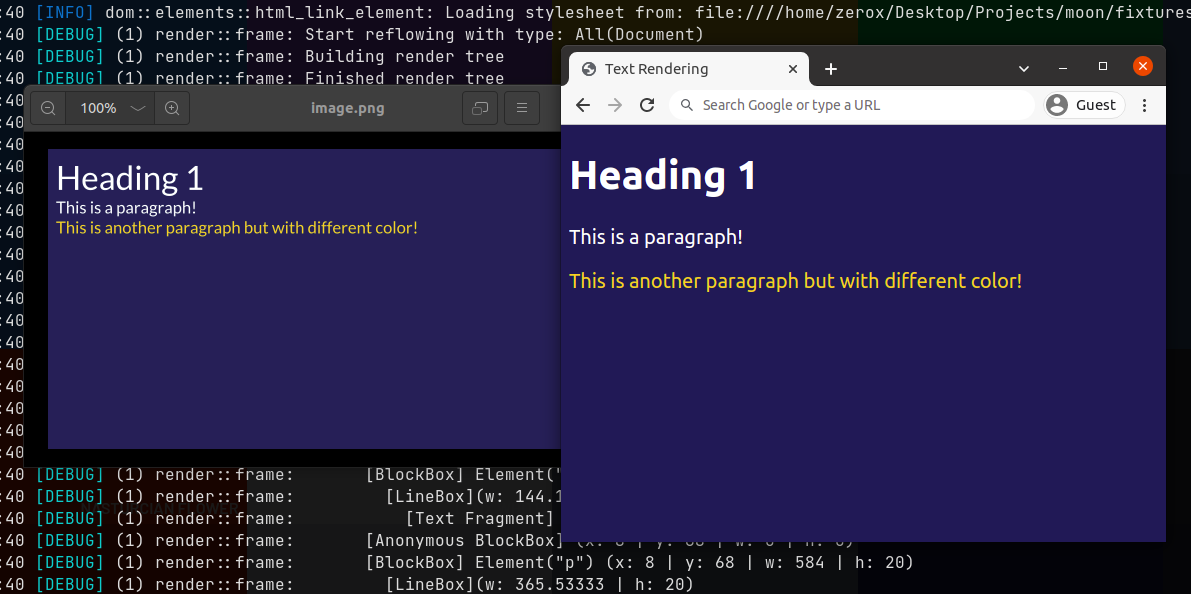
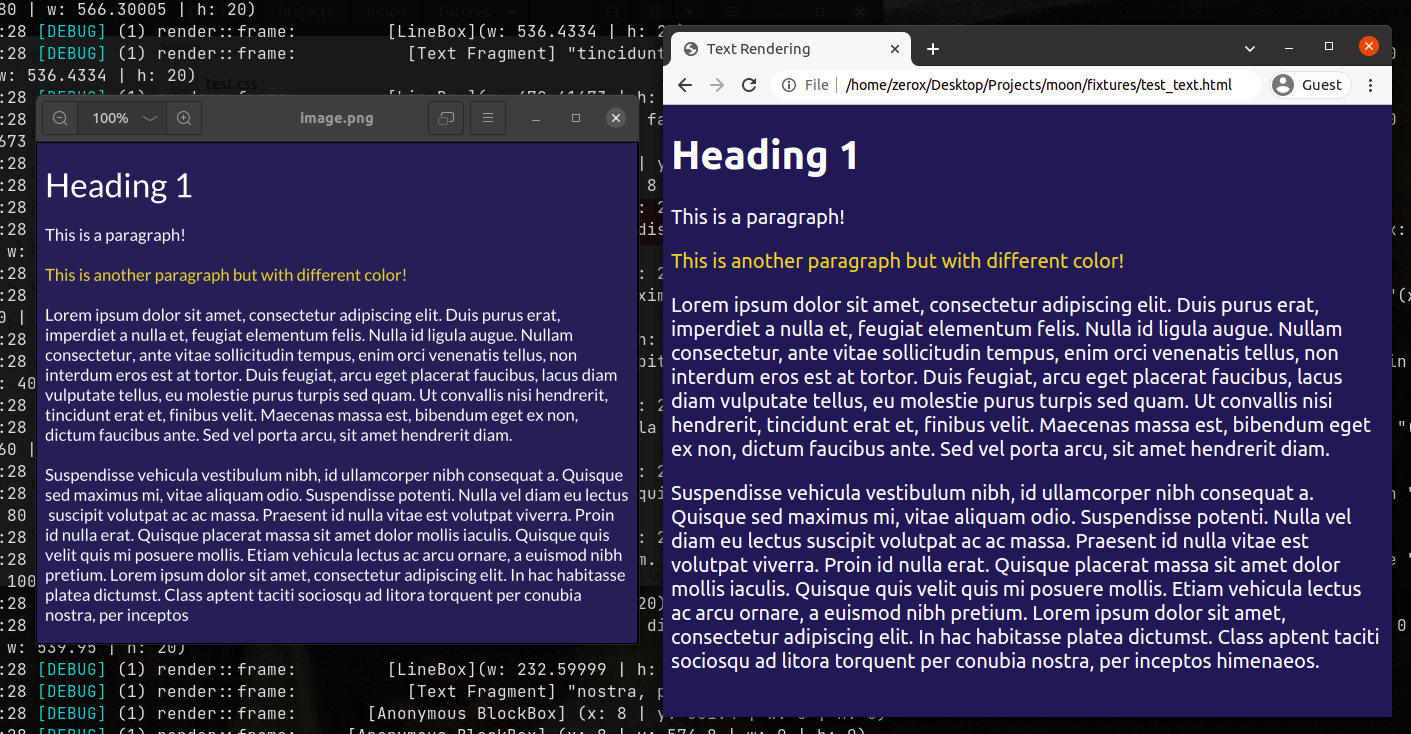
Support `margin-block-start` & `margin-block-end` & margin collapse
Support `margin-block-start` & `margin-block-end` CSS property by interpret it as `margin-top` & `margin-bottom`. This behavior should be fixed in the future once we support writing direction.

Supported margin collapse for BFC.

diff --git a/fixtures/test_text.html b/fixtures/test_text.html
@@ -15,6 +15,23 @@
     <h1>Heading 1</h1>
     <p>This is a paragraph!</p>
     <p id="yellow-text">This is another paragraph but with different color!</p>
+    <p>Lorem ipsum dolor sit amet, consectetur adipiscing elit. Duis purus erat, imperdiet a nulla
+    et, feugiat elementum felis. Nulla id ligula augue. Nullam consectetur, ante vitae sollicitudin
+    tempus, enim orci venenatis tellus, non interdum eros est at tortor. Duis feugiat, arcu eget
+    placerat faucibus, lacus diam vulputate tellus, eu molestie purus turpis sed quam. Ut convallis
+    nisi hendrerit, tincidunt erat et, finibus velit. Maecenas massa est, bibendum eget ex non,
+    dictum faucibus ante. Sed vel porta arcu, sit amet hendrerit diam.</p>
+    <p>Suspendisse vehicula vestibulum nibh, id ullamcorper nibh consequat a. Quisque sed maximus
+    mi, vitae aliquam odio. Suspendisse potenti. Nulla vel diam eu lectus suscipit volutpat ac ac
+    massa. Praesent id nulla vitae est volutpat viverra. Proin id nulla erat. Quisque placerat
+    massa sit amet dolor mollis iaculis. Quisque quis velit quis mi posuere mollis. Etiam vehicula
+    lectus ac arcu ornare, a euismod nibh pretium. Lorem ipsum dolor sit amet, consectetur
+    adipiscing elit. In hac habitasse platea dictumst. Class aptent taciti sociosqu ad litora
+    torquent per conubia nostra, per inceptos himenaeos.</p>
+    <p>Phasellus ac placerat tellus. Sed quis risus non sapien rutrum fermentum eget quis diam.
+    Nulla quis risus a diam finibus facilisis. Phasellus sit amet condimentum orci. Integer laoreet
+    purus dolor, vitae dapibus mi porta consequat. Mauris porttitor erat nulla, a vehicula massa
+    mollis vel. Aliquam et consequat ipsum. Etiam a bibendum magna.</p>
 </div>
 </body>
 </html>

diff --git a/fixtures/test_collapsed_margin.html b/fixtures/test_collapsed_margin.html
@@ -1,0 +1,22 @@
+<link rel="stylesheet" href="test_collapsed_margin.css" />
+
+<p>Positive Margins:</p>
+
+<div>
+  <div class="box red" id="a"></div>
+  <div class="box black" id="b"></div>
+</div>
+
+<p>Positive & Negative Margin:</p>
+
+<div>
+  <div class="box red" id="c"></div>
+  <div class="box black" id="d"></div>
+</div>
+
+<p>Negative Margins:</p>
+
+<div>
+  <div class="box red" id="e"></div>
+  <div class="box black" id="f"></div>
+</div>

diff --git a/fixtures/test_collapsed_margin.css b/fixtures/test_collapsed_margin.css
@@ -1,0 +1,36 @@
+.red {
+  background-color: red;
+}
+
+.black {
+  background-color: black;
+}
+
+.box {
+  height: 20px;
+  width: 300px;
+}
+
+#a {
+  margin-bottom: 20px;
+}
+
+#b {
+  margin-top: 20px;
+}
+
+#c {
+  margin-bottom: 20px;
+}
+
+#d {
+  margin-top: -10px;
+}
+
+#e {
+  margin-bottom: -5px;
+}
+
+#f {
+  margin-top: -5px;
+}

diff --git a/components/layout/src/flow/block.rs b/components/layout/src/flow/block.rs
@@ -5,14 +5,14 @@ use style::{property::Property, values::prelude::Position};
 
 pub struct BlockFormattingContext {
     layout_context: Rc<LayoutContext>,
-    current_y: f32,
+    last_sibling: Option<Rc<LayoutBox>>,
 }
 
 impl BlockFormattingContext {
     pub fn new(layout_context: Rc<LayoutContext>) -> Self {
         Self {
             layout_context,
-            current_y: 0.,
+            last_sibling: None,
         }
     }
 
@@ -56,7 +56,10 @@ impl BlockFormattingContext {
             }
 
             child.apply_explicit_sizes();
-            self.current_y += child.margin_box_height();
+
+            if child.border_box_absolute().height > 0. {
+                self.last_sibling = Some(child.clone());
+            }
         }
     }
 
@@ -65,7 +68,43 @@ impl BlockFormattingContext {
 
         let box_model = layout_node.box_model().borrow();
         let x = box_model.margin_box().left + box_model.offset.left;
-        let y = self.current_y + box_model.margin_box().top + box_model.offset.top;
+
+        let mut y = box_model.margin_box().top + box_model.offset.top;
+
+        let mut previous_collapsed_margin_bottom = 0.;
+
+        if let Some(sibling) = &self.last_sibling {
+            previous_collapsed_margin_bottom = f32::max(
+                previous_collapsed_margin_bottom,
+                sibling.box_model().borrow().margin_box().bottom,
+            );
+            y += sibling.offset().y
+                + sibling.content_size().height
+                + sibling.box_model().borrow().border_box().bottom;
+
+            if box_model.margin_box().top < 0. || previous_collapsed_margin_bottom < 0. {
+                if box_model.margin_box().top < 0. && previous_collapsed_margin_bottom < 0. {
+                    // When all margins are negative, the size of the collapsed margin is the smallest (most negative) margin.
+                    let smallest_negative_margin =
+                        f32::min(previous_collapsed_margin_bottom, box_model.margin_box().top);
+                    y += smallest_negative_margin;
+                } else {
+                    // When negative margins are involved, the size of the collapsed margins
+                    // is the sum of the largest positive margin and the smallest (most negative) negative margin.
+                    let largest_positive_margin =
+                        f32::max(previous_collapsed_margin_bottom, box_model.margin_box().top);
+                    let smallest_negative_margin =
+                        f32::min(previous_collapsed_margin_bottom, box_model.margin_box().top);
+
+                    let margin_offset = largest_positive_margin + smallest_negative_margin;
+                    y += margin_offset - box_model.margin_box().top;
+                }
+            } else if previous_collapsed_margin_bottom > box_model.margin_box().top {
+                let final_collapsed_margin =
+                    previous_collapsed_margin_bottom - box_model.margin_box().top;
+                y += final_collapsed_margin;
+            }
+        }
 
         layout_node.set_offset(x, y);
     }

diff --git a/components/style/src/computes/margin.rs b/components/style/src/computes/margin.rs
@@ -1,0 +1,35 @@
+use crate::property::Property;
+use crate::value::Value;
+use crate::value_processing::ComputeContext;
+use crate::value_processing::ValueRef;
+use crate::values::length::Length;
+use crate::values::length::LengthUnit;
+
+const BASE_FONT_SIZE: f32 = 16.; // 16px
+
+pub fn compute_margin(value: &Value, context: &mut ComputeContext) -> ValueRef {
+    match value {
+        Value::Length(Length {
+            value,
+            unit: LengthUnit::Em,
+        }) => {
+            let parent_font_size = context
+                .parent
+                .as_ref()
+                .map(|parent| {
+                    if let Some(p) = parent.upgrade() {
+                        return Some(p.get_style(&Property::FontSize).to_absolute_px());
+                    }
+                    None
+                })
+                .unwrap_or_default();
+            let value = parent_font_size
+                .map(|font_size| Value::Length(Length::new_px(value.0 * font_size)))
+                // TODO: investigate what will happen if we set percentage in font-size for
+                // HTML element
+                .unwrap_or(Value::Length(Length::new_px(value.0 * BASE_FONT_SIZE)));
+            context.style_cache.get(&value)
+        }
+        _ => context.style_cache.get(value),
+    }
+}

diff --git a/components/style/src/tree_builder.rs b/components/style/src/tree_builder.rs
@@ -133,29 +133,7 @@ fn compute_styles(
     let computed_values = specified_values
         .into_iter()
         .map(|(property, value)| {
-            // some properties requires layout to compute
-            let is_not_compute = match property {
-                Property::Width
-                | Property::Height
-                | Property::MarginTop
-                | Property::MarginRight
-                | Property::MarginBottom
-                | Property::MarginLeft
-                | Property::PaddingTop
-                | Property::PaddingRight
-                | Property::PaddingBottom
-                | Property::PaddingLeft
-                | Property::Top
-                | Property::Right
-                | Property::Bottom
-                | Property::Left => true,
-                _ => false,
-            };
-            let computed_value = if is_not_compute {
-                context.style_cache.get(&value)
-            } else {
-                compute(&property, &value, &mut context)
-            };
+            let computed_value = compute(&property, &value, &mut context);
             return (property.clone(), computed_value);
         })
         .collect::<HashMap<Property, ValueRef>>();

diff --git a/components/style/src/value_processing.rs b/components/style/src/value_processing.rs
@@ -1,3 +1,4 @@
+use crate::computes::margin::compute_margin;
 use crate::property::Property;
 use crate::render_tree::RenderNode;
 use crate::value::Value;
@@ -169,6 +170,10 @@ pub fn compute(property: &Property, value: &Value, context: &mut ComputeContext)
     match property {
         Property::Color => compute_color(value, context),
         Property::FontSize => compute_font_size(value, context),
+        Property::MarginTop
+        | Property::MarginLeft
+        | Property::MarginRight
+        | Property::MarginBottom => compute_margin(value, context),
         _ => context.style_cache.get(value),
     }
 }

diff --git a/components/style/src/property.rs b/components/style/src/property.rs
@@ -70,6 +70,8 @@ impl Property {
             "border-bottom-left-radius" => Some(Property::BorderBottomLeftRadius),
             "border-bottom-right-radius" => Some(Property::BorderBottomRightRadius),
             "font-size" => Some(Property::FontSize),
+            "margin-block-start" => Some(Property::MarginTop),
+            "margin-block-end" => Some(Property::MarginBottom),
             _ => None,
         }
     }

diff --git a/components/style/src/computes/mod.rs b/components/style/src/computes/mod.rs
@@ -1,2 +1,3 @@
 pub mod color;
 pub mod font_size;
+pub mod margin;
